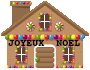
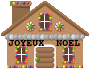
webgl: add blinking lights

Changed region(s): [[0.0444, 0.4857, 0.9556, 0.5714]]

diff --git a/webgl/index.js b/webgl/index.js
@@ -251,6 +251,7 @@ out vec4 fragColor;
 uniform sampler2D state;
 uniform sampler2D backgroundTexture;
 uniform vec4 scale;
+uniform float time;
 
 const vec2 bitEnc = vec2(1.,255.) / 2.0;
 const vec2 bitDec = 1./bitEnc;
@@ -289,7 +290,14 @@ vec2 processSnowFlake(float x, float y, float small, float medium, float large) 
         );
 }
 
-vec4 in_snow_flake() {
+vec4 apply_light(vec4 background_color, vec2 light_position, vec4 color, float radius, float power) {
+    vec2 distance = gl_FragCoord.xy - light_position.xy;
+    float distance_pow2 = dot(distance, distance);
+
+    return mix(background_color, color, radius / (1.0 + (distance_pow2 / power)));
+}
+
+vec4 blend_color() {
     vec2 snow_value;
     
     snow_value =  processSnowFlake(-2.0, -2.0, 0.0, 0.0, 1.0);
@@ -314,19 +322,65 @@ vec4 in_snow_flake() {
     snow_value += processSnowFlake(0.0, 2.0, 0.0, 0.0, 1.0);
     snow_value += processSnowFlake(2.0, 2.0, 0.0, 0.0, 1.0);
 
+    // If snow particule age > 0.0, then make it 1.0
     snow_value = ceil(min(snow_value, vec2(1.0)));
 
+    // Texture with images
     vec4 texture = texture(backgroundTexture, gl_FragCoord.xy / scale.xy);
+    // Add lights
+    vec4 texture_with_light = texture;
+
+    // 17 lights for house
+    float light_power_1 = 1.0 * (step(0.5, time));
+    float light_power_2 = 1.0 * (1.0 - step(0.5, time));
+
+    texture_with_light = apply_light(texture_with_light, vec2(10.0 + 7.0 , 33.0), vec4(0.573, 1.000, 0.000, 1.0), light_power_1, 6.0);
+    texture_with_light = apply_light(texture_with_light, vec2(10.0 + 11.0, 33.0), vec4(1.000, 0.932, 0.000, 1.0), light_power_2, 6.0);
+    texture_with_light = apply_light(texture_with_light, vec2(10.0 + 16.0, 33.0), vec4(1.000, 0.000, 0.043, 1.0), light_power_1, 6.0);
+    texture_with_light = apply_light(texture_with_light, vec2(10.0 + 20.0, 33.0), vec4(0.000, 0.700, 1.000, 1.0), light_power_2, 6.0);
+    texture_with_light = apply_light(texture_with_light, vec2(10.0 + 25.0, 33.0), vec4(1.000, 0.000, 0.585, 1.0), light_power_1, 6.0);
+    texture_with_light = apply_light(texture_with_light, vec2(10.0 + 29.0, 33.0), vec4(1.000, 0.000, 0.440, 1.0), light_power_2, 6.0);
+    texture_with_light = apply_light(texture_with_light, vec2(10.0 + 33.0, 33.0), vec4(1.000, 0.533, 0.000, 1.0), light_power_1, 6.0);
+    texture_with_light = apply_light(texture_with_light, vec2(10.0 + 38.0, 33.0), vec4(0.573, 1.000, 0.000, 1.0), light_power_2, 6.0);
+    texture_with_light = apply_light(texture_with_light, vec2(10.0 + 42.0, 33.0), vec4(1.000, 0.932, 0.000, 1.0), light_power_1, 6.0);
+    texture_with_light = apply_light(texture_with_light, vec2(10.0 + 47.0, 33.0), vec4(1.000, 0.000, 0.043, 1.0), light_power_2, 6.0);
+    texture_with_light = apply_light(texture_with_light, vec2(10.0 + 51.0, 33.0), vec4(0.000, 0.700, 1.000, 1.0), light_power_1, 6.0);
+    texture_with_light = apply_light(texture_with_light, vec2(10.0 + 56.0, 33.0), vec4(1.000, 0.000, 0.585, 1.0), light_power_2, 6.0);
+    texture_with_light = apply_light(texture_with_light, vec2(10.0 + 60.0, 33.0), vec4(1.000, 0.000, 0.440, 1.0), light_power_1, 6.0);
+    texture_with_light = apply_light(texture_with_light, vec2(10.0 + 64.0, 33.0), vec4(1.000, 0.533, 0.000, 1.0), light_power_2, 6.0);
+    texture_with_light = apply_light(texture_with_light, vec2(10.0 + 69.0, 33.0), vec4(0.573, 1.000, 0.000, 1.0), light_power_1, 6.0);
+    texture_with_light = apply_light(texture_with_light, vec2(10.0 + 73.0, 33.0), vec4(1.000, 0.932, 0.000, 1.0), light_power_2, 6.0);
+    texture_with_light = apply_light(texture_with_light, vec2(10.0 + 78.0, 33.0), vec4(1.000, 0.000, 0.043, 1.0), light_power_1, 6.0);
+    texture_with_light = apply_light(texture_with_light, vec2(10.0 + 82.0, 33.0), vec4(0.000, 0.700, 1.000, 1.0), light_power_2, 6.0);
+
+    // Sapin 1
+    light_power_1 = 1.0 * (step(0.5, fract(time + 0.7)));
+    light_power_2 = 1.0 * (1.0 - step(0.5, fract(time + 0.7)));
+    texture_with_light = apply_light(texture_with_light, vec2(120.0 + 39.0, 19.0), vec4(0.573, 1.000, 0.000, 1.0), light_power_1, 120.0);
+    texture_with_light = apply_light(texture_with_light, vec2(120.0 + 92.0, 15.0), vec4(1.000, 0.932, 0.000, 1.0), light_power_2, 120.0);
+    texture_with_light = apply_light(texture_with_light, vec2(120.0 + 69.0, 35.0), vec4(1.000, 0.000, 0.043, 1.0), light_power_2, 120.0);
+    texture_with_light = apply_light(texture_with_light, vec2(120.0 + 72.0, 75.0), vec4(0.000, 0.700, 1.000, 1.0), light_power_1, 120.0);
+    texture_with_light = apply_light(texture_with_light, vec2(120.0 + 57.0, 83.0), vec4(1.000, 0.000, 0.585, 1.0), light_power_2, 120.0);
+
+    // Sapin 2
+    light_power_1 = 1.0 * (step(0.5, fract(time + 0.4)));
+    light_power_2 = 1.0 * (1.0 - step(0.5, fract(time + 0.4)));
+    texture_with_light = apply_light(texture_with_light, vec2(256.0 + 39.0*2.0, 19.0*2.0), vec4(0.573, 1.000, 0.000, 1.0), light_power_1, 240.0);
+    texture_with_light = apply_light(texture_with_light, vec2(256.0 + 92.0*2.0, 15.0*2.0), vec4(1.000, 0.932, 0.000, 1.0), light_power_2, 240.0);
+    texture_with_light = apply_light(texture_with_light, vec2(256.0 + 69.0*2.0, 35.0*2.0), vec4(1.000, 0.000, 0.043, 1.0), light_power_2, 240.0);
+    texture_with_light = apply_light(texture_with_light, vec2(256.0 + 72.0*2.0, 75.0*2.0), vec4(0.000, 0.700, 1.000, 1.0), light_power_1, 240.0);
+    texture_with_light = apply_light(texture_with_light, vec2(256.0 + 57.0*2.0, 83.0*2.0), vec4(1.000, 0.000, 0.585, 1.0), light_power_2, 240.0);
+
 
     vec3 blendedColor = snow_value.xxx;
-    blendedColor = mix(blendedColor, texture.rgb, texture.a);
+    blendedColor = mix(blendedColor, texture_with_light.rgb, texture_with_light.a);
     blendedColor = mix(blendedColor, snow_value.yyy, snow_value.y);
 
     return vec4(blendedColor, 1.0);
 }
 
 void main() {
-    fragColor = in_snow_flake();
+    fragColor = blend_color();
     // fragColor = texture(state, (gl_FragCoord.xy) / scale.xy);
     // fragColor.a = 1.0;
 }
@@ -580,6 +634,7 @@ function handleInteractions(canvas, runtimeState) {
         uniformLocations: {
             scale: gl.getUniformLocation(shaderCopyProgram, "scale"),
             state: gl.getUniformLocation(shaderCopyProgram, "state"),
+            time: gl.getUniformLocation(shaderCopyProgram, "time"),
             backgroundTexture: gl.getUniformLocation(shaderCopyProgram, "backgroundTexture"),
         },
     };
@@ -651,6 +706,7 @@ function handleInteractions(canvas, runtimeState) {
                 gl.drawArrays(gl.TRIANGLE_STRIP, 0, 4);
                 // Render to screen
                 gl.useProgram(programCopyInfo.program);
+                gl.uniform1f(programCopyInfo.uniformLocations.time, (now % 2000) * (1.0 / 2000.0));
                 gl.bindFramebuffer(gl.FRAMEBUFFER, null);
                 gl.drawArrays(gl.TRIANGLE_STRIP, 0, 4);
             }

diff --git a/webgl/index.ts b/webgl/index.ts
@@ -254,6 +254,7 @@ out vec4 fragColor;
 uniform sampler2D state;
 uniform sampler2D backgroundTexture;
 uniform vec4 scale;
+uniform float time;
 
 const vec2 bitEnc = vec2(1.,255.) / 2.0;
 const vec2 bitDec = 1./bitEnc;
@@ -292,7 +293,14 @@ vec2 processSnowFlake(float x, float y, float small, float medium, float large) 
         );
 }
 
-vec4 in_snow_flake() {
+vec4 apply_light(vec4 background_color, vec2 light_position, vec4 color, float radius, float power) {
+    vec2 distance = gl_FragCoord.xy - light_position.xy;
+    float distance_pow2 = dot(distance, distance);
+
+    return mix(background_color, color, radius / (1.0 + (distance_pow2 / power)));
+}
+
+vec4 blend_color() {
     vec2 snow_value;
     
     snow_value =  processSnowFlake(-2.0, -2.0, 0.0, 0.0, 1.0);
@@ -317,19 +325,65 @@ vec4 in_snow_flake() {
     snow_value += processSnowFlake(0.0, 2.0, 0.0, 0.0, 1.0);
     snow_value += processSnowFlake(2.0, 2.0, 0.0, 0.0, 1.0);
 
+    // If snow particule age > 0.0, then make it 1.0
     snow_value = ceil(min(snow_value, vec2(1.0)));
 
+    // Texture with images
     vec4 texture = texture(backgroundTexture, gl_FragCoord.xy / scale.xy);
+    // Add lights
+    vec4 texture_with_light = texture;
+
+    // 17 lights for house
+    float light_power_1 = 1.0 * (step(0.5, time));
+    float light_power_2 = 1.0 * (1.0 - step(0.5, time));
+
+    texture_with_light = apply_light(texture_with_light, vec2(10.0 + 7.0 , 33.0), vec4(0.573, 1.000, 0.000, 1.0), light_power_1, 6.0);
+    texture_with_light = apply_light(texture_with_light, vec2(10.0 + 11.0, 33.0), vec4(1.000, 0.932, 0.000, 1.0), light_power_2, 6.0);
+    texture_with_light = apply_light(texture_with_light, vec2(10.0 + 16.0, 33.0), vec4(1.000, 0.000, 0.043, 1.0), light_power_1, 6.0);
+    texture_with_light = apply_light(texture_with_light, vec2(10.0 + 20.0, 33.0), vec4(0.000, 0.700, 1.000, 1.0), light_power_2, 6.0);
+    texture_with_light = apply_light(texture_with_light, vec2(10.0 + 25.0, 33.0), vec4(1.000, 0.000, 0.585, 1.0), light_power_1, 6.0);
+    texture_with_light = apply_light(texture_with_light, vec2(10.0 + 29.0, 33.0), vec4(1.000, 0.000, 0.440, 1.0), light_power_2, 6.0);
+    texture_with_light = apply_light(texture_with_light, vec2(10.0 + 33.0, 33.0), vec4(1.000, 0.533, 0.000, 1.0), light_power_1, 6.0);
+    texture_with_light = apply_light(texture_with_light, vec2(10.0 + 38.0, 33.0), vec4(0.573, 1.000, 0.000, 1.0), light_power_2, 6.0);
+    texture_with_light = apply_light(texture_with_light, vec2(10.0 + 42.0, 33.0), vec4(1.000, 0.932, 0.000, 1.0), light_power_1, 6.0);
+    texture_with_light = apply_light(texture_with_light, vec2(10.0 + 47.0, 33.0), vec4(1.000, 0.000, 0.043, 1.0), light_power_2, 6.0);
+    texture_with_light = apply_light(texture_with_light, vec2(10.0 + 51.0, 33.0), vec4(0.000, 0.700, 1.000, 1.0), light_power_1, 6.0);
+    texture_with_light = apply_light(texture_with_light, vec2(10.0 + 56.0, 33.0), vec4(1.000, 0.000, 0.585, 1.0), light_power_2, 6.0);
+    texture_with_light = apply_light(texture_with_light, vec2(10.0 + 60.0, 33.0), vec4(1.000, 0.000, 0.440, 1.0), light_power_1, 6.0);
+    texture_with_light = apply_light(texture_with_light, vec2(10.0 + 64.0, 33.0), vec4(1.000, 0.533, 0.000, 1.0), light_power_2, 6.0);
+    texture_with_light = apply_light(texture_with_light, vec2(10.0 + 69.0, 33.0), vec4(0.573, 1.000, 0.000, 1.0), light_power_1, 6.0);
+    texture_with_light = apply_light(texture_with_light, vec2(10.0 + 73.0, 33.0), vec4(1.000, 0.932, 0.000, 1.0), light_power_2, 6.0);
+    texture_with_light = apply_light(texture_with_light, vec2(10.0 + 78.0, 33.0), vec4(1.000, 0.000, 0.043, 1.0), light_power_1, 6.0);
+    texture_with_light = apply_light(texture_with_light, vec2(10.0 + 82.0, 33.0), vec4(0.000, 0.700, 1.000, 1.0), light_power_2, 6.0);
+
+    // Sapin 1
+    light_power_1 = 1.0 * (step(0.5, fract(time + 0.7)));
+    light_power_2 = 1.0 * (1.0 - step(0.5, fract(time + 0.7)));
+    texture_with_light = apply_light(texture_with_light, vec2(120.0 + 39.0, 19.0), vec4(0.573, 1.000, 0.000, 1.0), light_power_1, 120.0);
+    texture_with_light = apply_light(texture_with_light, vec2(120.0 + 92.0, 15.0), vec4(1.000, 0.932, 0.000, 1.0), light_power_2, 120.0);
+    texture_with_light = apply_light(texture_with_light, vec2(120.0 + 69.0, 35.0), vec4(1.000, 0.000, 0.043, 1.0), light_power_2, 120.0);
+    texture_with_light = apply_light(texture_with_light, vec2(120.0 + 72.0, 75.0), vec4(0.000, 0.700, 1.000, 1.0), light_power_1, 120.0);
+    texture_with_light = apply_light(texture_with_light, vec2(120.0 + 57.0, 83.0), vec4(1.000, 0.000, 0.585, 1.0), light_power_2, 120.0);
+
+    // Sapin 2
+    light_power_1 = 1.0 * (step(0.5, fract(time + 0.4)));
+    light_power_2 = 1.0 * (1.0 - step(0.5, fract(time + 0.4)));
+    texture_with_light = apply_light(texture_with_light, vec2(256.0 + 39.0*2.0, 19.0*2.0), vec4(0.573, 1.000, 0.000, 1.0), light_power_1, 240.0);
+    texture_with_light = apply_light(texture_with_light, vec2(256.0 + 92.0*2.0, 15.0*2.0), vec4(1.000, 0.932, 0.000, 1.0), light_power_2, 240.0);
+    texture_with_light = apply_light(texture_with_light, vec2(256.0 + 69.0*2.0, 35.0*2.0), vec4(1.000, 0.000, 0.043, 1.0), light_power_2, 240.0);
+    texture_with_light = apply_light(texture_with_light, vec2(256.0 + 72.0*2.0, 75.0*2.0), vec4(0.000, 0.700, 1.000, 1.0), light_power_1, 240.0);
+    texture_with_light = apply_light(texture_with_light, vec2(256.0 + 57.0*2.0, 83.0*2.0), vec4(1.000, 0.000, 0.585, 1.0), light_power_2, 240.0);
+
 
     vec3 blendedColor = snow_value.xxx;
-    blendedColor = mix(blendedColor, texture.rgb, texture.a);
+    blendedColor = mix(blendedColor, texture_with_light.rgb, texture_with_light.a);
     blendedColor = mix(blendedColor, snow_value.yyy, snow_value.y);
 
     return vec4(blendedColor, 1.0);
 }
 
 void main() {
-    fragColor = in_snow_flake();
+    fragColor = blend_color();
     // fragColor = texture(state, (gl_FragCoord.xy) / scale.xy);
     // fragColor.a = 1.0;
 }
@@ -646,6 +700,7 @@ function handleInteractions(canvas: HTMLCanvasElement, runtimeState) {
         uniformLocations: {
             scale: gl.getUniformLocation(shaderCopyProgram, "scale"),
             state: gl.getUniformLocation(shaderCopyProgram, "state"),
+            time: gl.getUniformLocation(shaderCopyProgram, "time"),
             backgroundTexture: gl.getUniformLocation(shaderCopyProgram, "backgroundTexture"),
         },
     };
@@ -758,6 +813,7 @@ function handleInteractions(canvas: HTMLCanvasElement, runtimeState) {
 
                 // Render to screen
                 gl.useProgram(programCopyInfo.program);
+                gl.uniform1f(programCopyInfo.uniformLocations.time, (now % 2000) * (1.0 / 2000.0));
                 gl.bindFramebuffer(gl.FRAMEBUFFER, null);
                 gl.drawArrays(gl.TRIANGLE_STRIP, 0, 4);
             }
